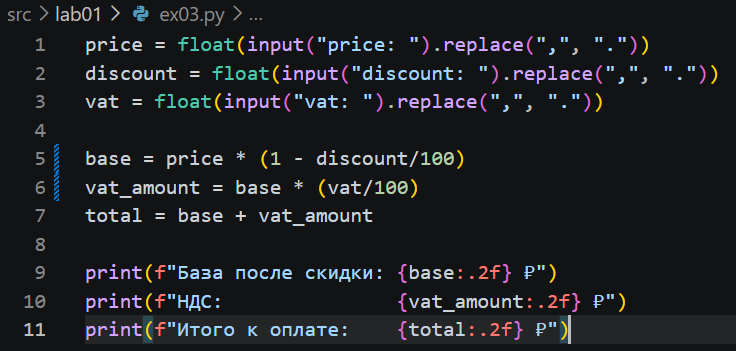
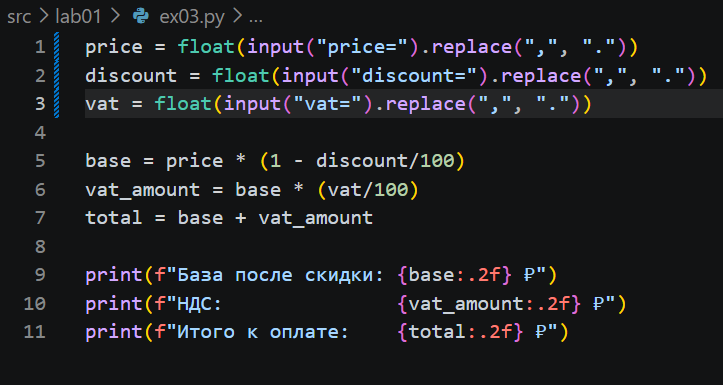
new

diff --git a/src/lab01/ex03.py b/src/lab01/ex03.py
@@ -1,6 +1,6 @@
-price = float(input("price: ").replace(",", "."))
-discount = float(input("discount: ").replace(",", "."))
-vat = float(input("vat: ").replace(",", "."))
+price = float(input("price=").replace(",", "."))
+discount = float(input("discount=").replace(",", "."))
+vat = float(input("vat=").replace(",", "."))
 
 base = price * (1 - discount/100)
 vat_amount = base * (vat/100)

diff --git a/src/lab01/ex06.py b/src/lab01/ex06.py
@@ -1,10 +1,10 @@
-n = int(input())
+n = int(input("in_1: "))
 ochno = 0
 zaochno = 0
 for i in range(n):
-    parts = input().split()
+    parts = input(f"in_{i+2}: ").split()
     if parts[-1] == "True":
         ochno += 1
     else:
         zaochno += 1
-print(ochno, zaochno)
+print(f"out: {ochno} {zaochno}")

diff --git a/src/lab01/ex07.py b/src/lab01/ex07.py
@@ -1,4 +1,4 @@
-s = input()
+s = input("in: ")
 
 digits = "0123456789"
 upper_letters = "ABCDEFGHIJKLMNOPQRSTUVWXYZ"
@@ -29,4 +29,4 @@ while True:
         break
     i = i + step
 
-print(result)
+print("out: " + result)
